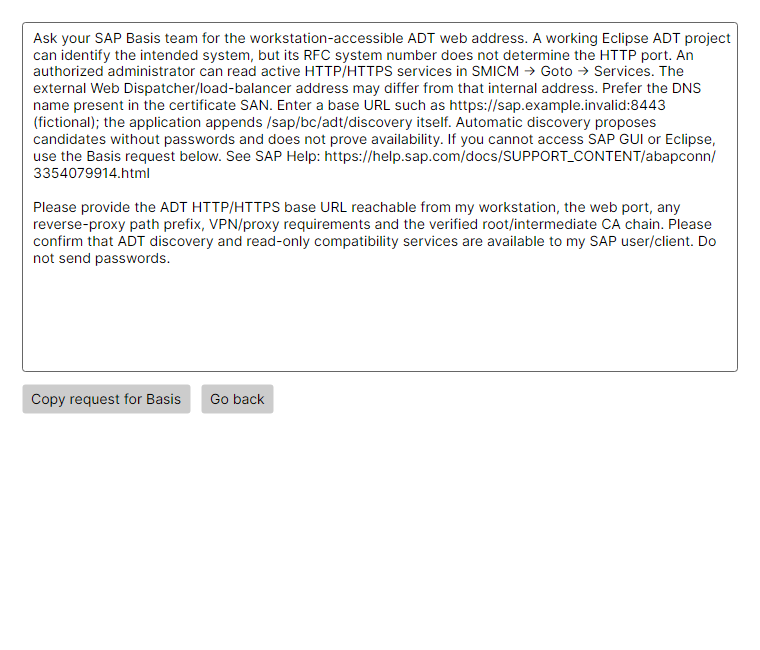
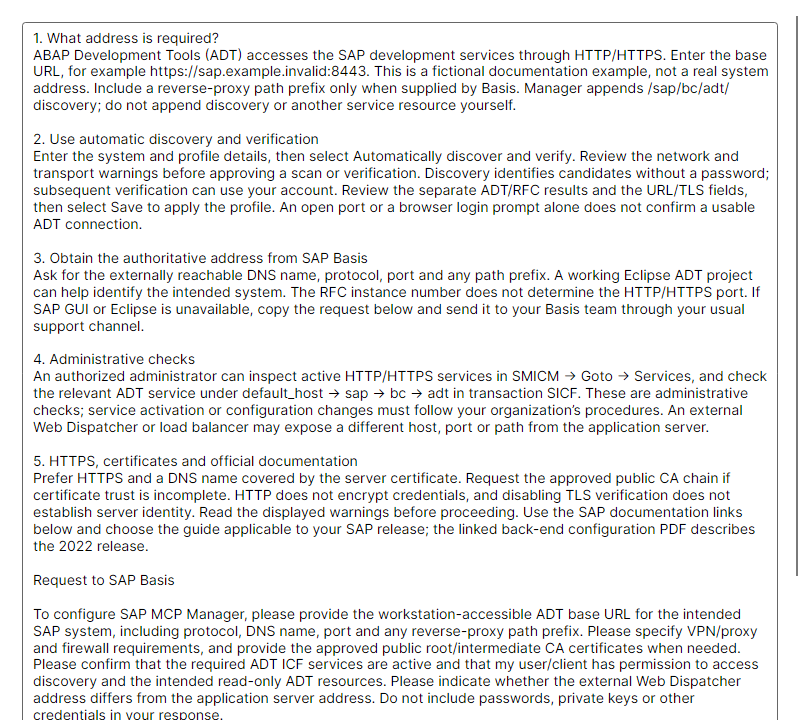
docs: refresh stable ADT help screenshots and acceptance notes

diff --git a/docs/ADT-CONNECTIONS.md b/docs/ADT-CONNECTIONS.md
@@ -62,6 +62,6 @@ Profile and certificate changes are read on the next call; no target-only URL ca
 
 Export the masked support report from the diagnosis dialog. It contains only approved stage/status/code metadata and masked configuration; no endpoint, account, certificate identity, token, password, cookie, headers or raw body. Do not attach real mapping, CA files, native traces or PATH to public issues.
 
-Local synthetic HTTP/TLS tests cover profile isolation, chains, self-signed, SAN/date errors, redirects, proxies, authentication and false-positive content. Manager/Host/MCP consistency is checked against a local fixture without live SAP. Native keyboard/accessibility, clean Windows/GUI-free installation and authorized customer/live SAP acceptance remain pending until actually performed. Automatic OCSP/CRL/AIA retrieval, SSO/mTLS and SAP-side service/certificate changes are outside this delivery. Windows/Node trust rules are not identical to browser/Eclipse trust stores; a browser success alone is not proof of MCP trust.
+Local synthetic HTTP/TLS tests cover profile isolation, chains, self-signed, SAN/date errors, redirects, proxies, authentication and false-positive content. Manager/Host/MCP consistency is checked against a local fixture without live SAP. The user confirmed Basic connections and Advanced multiple-profile connections on two machines. Native keyboard/accessibility and clean Windows/GUI-free VM acceptance remain separate, unperformed checks. Automatic OCSP/CRL/AIA retrieval, SSO/mTLS and SAP-side service/certificate changes are outside this delivery. Windows/Node trust rules are not identical to browser/Eclipse trust stores; a browser success alone is not proof of MCP trust.
 
 ![ADT URL help](images/adt-url-help-en.png)

diff --git a/docs/TROUBLESHOOTING.md b/docs/TROUBLESHOOTING.md
@@ -121,7 +121,7 @@ Profile and certificate changes are read on the next call; no target-only URL ca
 
 Export the masked support report from the diagnosis dialog. It contains only approved stage/status/code metadata and masked configuration; no endpoint, account, certificate identity, token, password, cookie, headers or raw body. Do not attach real mapping, CA files, native traces or PATH to public issues.
 
-Local synthetic HTTP/TLS tests cover profile isolation, chains, self-signed, SAN/date errors, redirects, proxies, authentication and false-positive content. Manager/Host/MCP consistency is checked against a local fixture without live SAP. Native keyboard/accessibility, clean Windows/GUI-free installation and authorized customer/live SAP acceptance remain pending until actually performed. Automatic OCSP/CRL/AIA retrieval, SSO/mTLS and SAP-side service/certificate changes are outside this delivery. Windows/Node trust rules are not identical to browser/Eclipse trust stores; a browser success alone is not proof of MCP trust.
+Local synthetic HTTP/TLS tests cover profile isolation, chains, self-signed, SAN/date errors, redirects, proxies, authentication and false-positive content. Manager/Host/MCP consistency is checked against a local fixture without live SAP. The user confirmed Basic connections and Advanced multiple-profile connections on two machines. Native keyboard/accessibility and clean Windows/GUI-free VM acceptance remain separate, unperformed checks. Automatic OCSP/CRL/AIA retrieval, SSO/mTLS and SAP-side service/certificate changes are outside this delivery. Windows/Node trust rules are not identical to browser/Eclipse trust stores; a browser success alone is not proof of MCP trust.
 
 
 # Basic setup — 0.1.0-preview.10

diff --git a/docs/USER-GUIDE.md b/docs/USER-GUIDE.md
@@ -247,7 +247,7 @@ Profile and certificate changes are read on the next call; no target-only URL ca
 
 Export the masked support report from the diagnosis dialog. It contains only approved stage/status/code metadata and masked configuration; no endpoint, account, certificate identity, token, password, cookie, headers or raw body. Do not attach real mapping, CA files, native traces or PATH to public issues.
 
-Local synthetic HTTP/TLS tests cover profile isolation, chains, self-signed, SAN/date errors, redirects, proxies, authentication and false-positive content. Manager/Host/MCP consistency is checked against a local fixture without live SAP. Native keyboard/accessibility, clean Windows/GUI-free installation and authorized customer/live SAP acceptance remain pending until actually performed. Automatic OCSP/CRL/AIA retrieval, SSO/mTLS and SAP-side service/certificate changes are outside this delivery. Windows/Node trust rules are not identical to browser/Eclipse trust stores; a browser success alone is not proof of MCP trust.
+Local synthetic HTTP/TLS tests cover profile isolation, chains, self-signed, SAN/date errors, redirects, proxies, authentication and false-positive content. Manager/Host/MCP consistency is checked against a local fixture without live SAP. The user confirmed Basic connections and Advanced multiple-profile connections on two machines. Native keyboard/accessibility and clean Windows/GUI-free VM acceptance remain separate, unperformed checks. Automatic OCSP/CRL/AIA retrieval, SSO/mTLS and SAP-side service/certificate changes are outside this delivery. Windows/Node trust rules are not identical to browser/Eclipse trust stores; a browser success alone is not proof of MCP trust.
 
 
 # Basic setup — 0.1.0-preview.10

diff --git a/docs/ADT-CONNECTIONS.tr.md b/docs/ADT-CONNECTIONS.tr.md
@@ -62,6 +62,6 @@ Profil/sertifika değişikliği sonraki çağrıda okunur; yalnız hedefe göre 
 
 Tanılama ekranından maskelenmiş destek raporu çıkarın. Yalnız izinli aşama/durum/kod ve maskelenmiş yapılandırma bulunur; adres, hesap, sertifika kimliği, token, şifre, cookie, header veya ham gövde yoktur. Gerçek mapping, CA dosyaları, native trace veya PATH’i public kayıtlara eklemeyin.
 
-Yerel kurgusal HTTP/TLS testleri profil yalıtımı, zincir, self-signed, SAN/tarih, redirect, proxy, kimlik ve yanıltıcı içerik senaryolarını kapsar. Manager/Host/MCP tutarlılığı canlı SAP olmadan yerel sunucuda sınanır. Native klavye/erişilebilirlik, temiz Windows/GUI’siz kurulum ve yetkili müşteri/canlı SAP kabulü yapılana kadar bekler. Otomatik OCSP/CRL/AIA, SSO/mTLS ve SAP tarafında servis/sertifika değiştirme bu teslimde yoktur. Windows/Node güven kuralları tarayıcı/Eclipse ile aynı değildir; yalnız tarayıcıda açılması MCP güvenini kanıtlamaz.
+Yerel kurgusal HTTP/TLS testleri profil yalıtımı, zincir, self-signed, SAN/tarih, redirect, proxy, kimlik ve yanıltıcı içerik senaryolarını kapsar. Manager/Host/MCP tutarlılığı canlı SAP olmadan yerel sunucuda sınanır. Kullanıcı iki makinede Basic bağlantısını ve Advanced çoklu profil bağlantısını doğruladı. Native klavye/erişilebilirlik ve temiz Windows/GUI’siz VM kabulü ayrı, henüz yapılmamış kontrollerdir. Otomatik OCSP/CRL/AIA, SSO/mTLS ve SAP tarafında servis/sertifika değiştirme bu teslimde yoktur. Windows/Node güven kuralları tarayıcı/Eclipse ile aynı değildir; yalnız tarayıcıda açılması MCP güvenini kanıtlamaz.
 
 ![ADT URL help](images/adt-url-help-tr.png)

diff --git a/docs/TROUBLESHOOTING.tr.md b/docs/TROUBLESHOOTING.tr.md
@@ -121,7 +121,7 @@ Profil/sertifika değişikliği sonraki çağrıda okunur; yalnız hedefe göre 
 
 Tanılama ekranından maskelenmiş destek raporu çıkarın. Yalnız izinli aşama/durum/kod ve maskelenmiş yapılandırma bulunur; adres, hesap, sertifika kimliği, token, şifre, cookie, header veya ham gövde yoktur. Gerçek mapping, CA dosyaları, native trace veya PATH’i public kayıtlara eklemeyin.
 
-Yerel kurgusal HTTP/TLS testleri profil yalıtımı, zincir, self-signed, SAN/tarih, redirect, proxy, kimlik ve yanıltıcı içerik senaryolarını kapsar. Manager/Host/MCP tutarlılığı canlı SAP olmadan yerel sunucuda sınanır. Native klavye/erişilebilirlik, temiz Windows/GUI’siz kurulum ve yetkili müşteri/canlı SAP kabulü yapılana kadar bekler. Otomatik OCSP/CRL/AIA, SSO/mTLS ve SAP tarafında servis/sertifika değiştirme bu teslimde yoktur. Windows/Node güven kuralları tarayıcı/Eclipse ile aynı değildir; yalnız tarayıcıda açılması MCP güvenini kanıtlamaz.
+Yerel kurgusal HTTP/TLS testleri profil yalıtımı, zincir, self-signed, SAN/tarih, redirect, proxy, kimlik ve yanıltıcı içerik senaryolarını kapsar. Manager/Host/MCP tutarlılığı canlı SAP olmadan yerel sunucuda sınanır. Kullanıcı iki makinede Basic bağlantısını ve Advanced çoklu profil bağlantısını doğruladı. Native klavye/erişilebilirlik ve temiz Windows/GUI’siz VM kabulü ayrı, henüz yapılmamış kontrollerdir. Otomatik OCSP/CRL/AIA, SSO/mTLS ve SAP tarafında servis/sertifika değiştirme bu teslimde yoktur. Windows/Node güven kuralları tarayıcı/Eclipse ile aynı değildir; yalnız tarayıcıda açılması MCP güvenini kanıtlamaz.
 
 
 # Basic kurulum — 0.1.0-preview.10

diff --git a/docs/USER-GUIDE.tr.md b/docs/USER-GUIDE.tr.md
@@ -247,7 +247,7 @@ Profil/sertifika değişikliği sonraki çağrıda okunur; yalnız hedefe göre 
 
 Tanılama ekranından maskelenmiş destek raporu çıkarın. Yalnız izinli aşama/durum/kod ve maskelenmiş yapılandırma bulunur; adres, hesap, sertifika kimliği, token, şifre, cookie, header veya ham gövde yoktur. Gerçek mapping, CA dosyaları, native trace veya PATH’i public kayıtlara eklemeyin.
 
-Yerel kurgusal HTTP/TLS testleri profil yalıtımı, zincir, self-signed, SAN/tarih, redirect, proxy, kimlik ve yanıltıcı içerik senaryolarını kapsar. Manager/Host/MCP tutarlılığı canlı SAP olmadan yerel sunucuda sınanır. Native klavye/erişilebilirlik, temiz Windows/GUI’siz kurulum ve yetkili müşteri/canlı SAP kabulü yapılana kadar bekler. Otomatik OCSP/CRL/AIA, SSO/mTLS ve SAP tarafında servis/sertifika değiştirme bu teslimde yoktur. Windows/Node güven kuralları tarayıcı/Eclipse ile aynı değildir; yalnız tarayıcıda açılması MCP güvenini kanıtlamaz.
+Yerel kurgusal HTTP/TLS testleri profil yalıtımı, zincir, self-signed, SAN/tarih, redirect, proxy, kimlik ve yanıltıcı içerik senaryolarını kapsar. Manager/Host/MCP tutarlılığı canlı SAP olmadan yerel sunucuda sınanır. Kullanıcı iki makinede Basic bağlantısını ve Advanced çoklu profil bağlantısını doğruladı. Native klavye/erişilebilirlik ve temiz Windows/GUI’siz VM kabulü ayrı, henüz yapılmamış kontrollerdir. Otomatik OCSP/CRL/AIA, SSO/mTLS ve SAP tarafında servis/sertifika değiştirme bu teslimde yoktur. Windows/Node güven kuralları tarayıcı/Eclipse ile aynı değildir; yalnız tarayıcıda açılması MCP güvenini kanıtlamaz.
 
 
 # Basic kurulum — 0.1.0-preview.10
